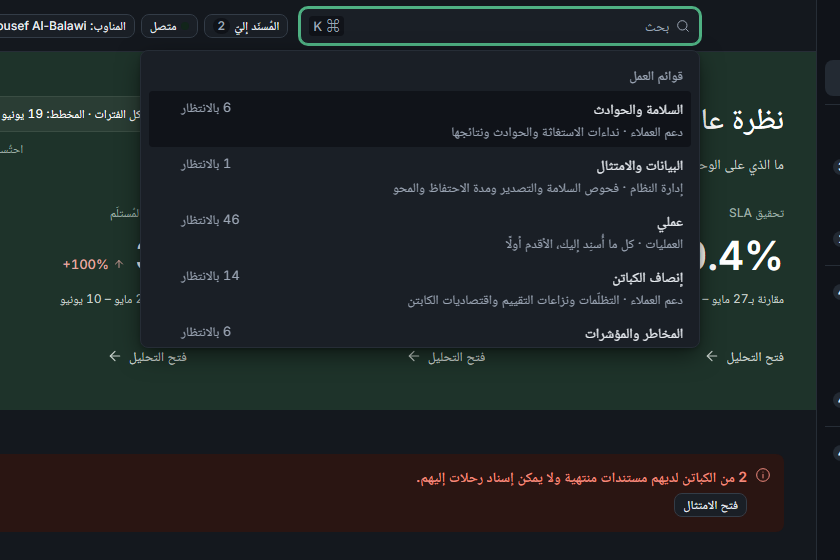
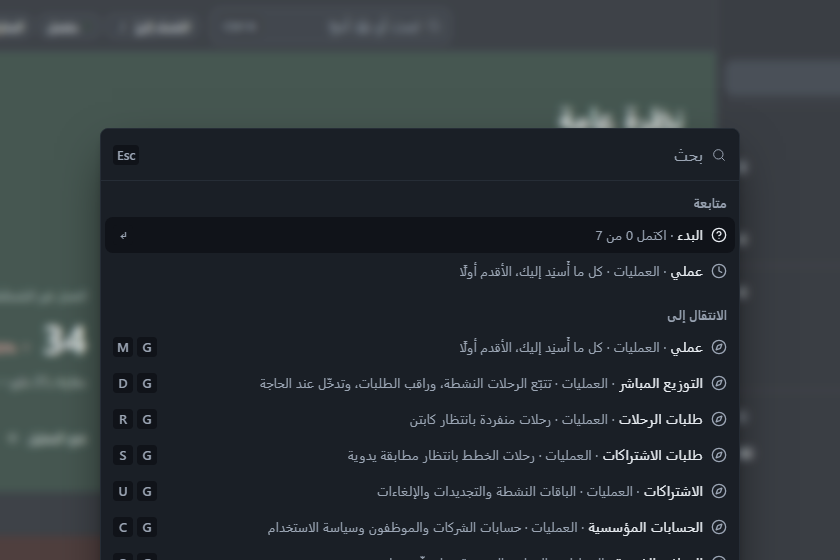
chore(onboarding): recapture the welcome screenshots against the centred palette
The welcome's third slide showed the old anchored dropdown. All eight
PNGs are re-shot from the worktree server: the palette captures now show
the centred modal over its scrim, one-line rows with glyphs, Resume and
Go to, and no Queues at rest.

§14 also records the placeholder still reading `Search` rather than §6's
verb-naming sentence, and the exact i18n:keys refusal.

diff --git a/docs/05-restructure/COMMAND-PALETTE-DISCOVERY.md b/docs/05-restructure/COMMAND-PALETTE-DISCOVERY.md
@@ -405,6 +405,11 @@ reading them instead of skipping its own assertion.
 - **`⌘↵` without closing** is deferred, unchanged from §13: a destination row's
   `onSelect` closes the palette from inside the model and the surface has no way
   to ask it not to. It needs a model-side variant.
+- **The placeholder still reads *Search***. §6 asks for one that names the
+  verbs (*Type a command, a name or an ID*); the palette renders
+  `shell.search.placeholder`, which is the old top-bar field's word. A new key
+  is a copy decision and `npm run i18n:keys` currently refuses to write (below),
+  so it is left for the owner rather than invented here.
 - **Group labels stay muted, in the case the dictionary writes them in** —
   `text-xs font-medium text-muted-foreground`, no `uppercase` and no tracking.
   §3's sketch says small-caps; D18 is the rule that wins.
@@ -430,3 +435,15 @@ reading them instead of skipping its own assertion.
   `hiddenFromPalette` reasons come off, with the `REGISTRIES` table in
   `domains.test.ts` and four new `TargetSource`s in `targets.ts`. Owned by
   mock-data-engineer and product-designer, not by this integration.
+- **`npm run i18n:keys` refuses to write on this branch**, so `docs/08-i18n/`
+  and `scripts/i18n-budget.json` are unchanged and stale for the 43-command
+  registry. Verbatim: *"REFUSING to write: overBudget is 160 against a ceiling
+  of 147. The ceiling never rises. Cut the value to its class budget (X18), or
+  move the explanation behind InfoHint."* Ten of the over-budget values are new
+  since the pre-merge tree and all ten are §11's own copy in
+  `src/commands/copy.ts` — `cashReport.action.escalate`,
+  `incident.action.suspend`, `request.action.claimNext`,
+  `session.action.themeDark` · `themeLight` · `themeSystem`,
+  `operator.offboard.title`, `request.assign.title`, `request.expire.title`,
+  `wallet.toast.pending`. Shortening a command title is a copy decision, and
+  the ceiling was not raised.
